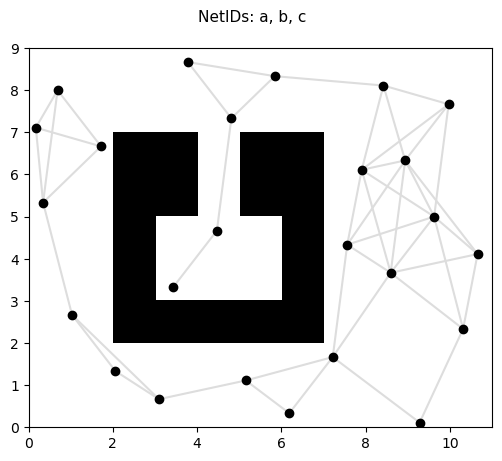
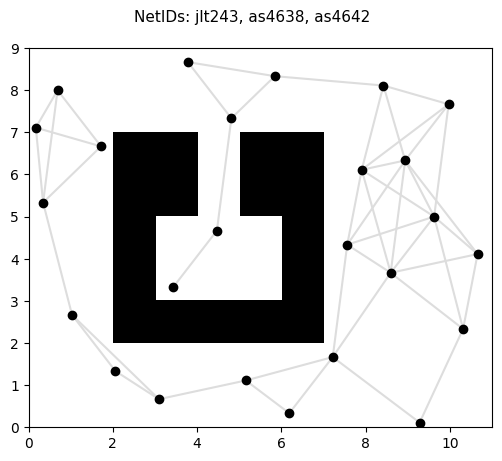
completed rest of the questions

Changed region(s): [[0.2689, 0.0, 0.747, 0.0607]]

diff --git a/mote-curriculum-student/src/mote_curriculum/hw4/planning/src/planning/problems.py b/mote-curriculum-student/src/mote_curriculum/hw4/planning/src/planning/problems.py
@@ -228,7 +228,8 @@ class SE2Problem(PlanarProblem):
         q2_2d = np.atleast_2d(q2)
         ### BEGIN QUESTION 4.1 #####################
         ### Hint: try to make use of dubins.path_length()
-        pass
+        # Dubins length is directional: cost of driving FROM q1 TO q2 with the car's max curvature.
+        return dubins.path_length(q1_2d, q2_2d, self.curvature)
         ### END QUESTION 4.1 #######################
 
     def cost_to_go(self, q1, goal):

diff --git a/mote-curriculum-student/src/mote_curriculum/hw4/planning/writeup/writeup.md b/mote-curriculum-student/src/mote_curriculum/hw4/planning/writeup/writeup.md
@@ -1,49 +1,92 @@
-# Project 4: Planning 
+# Project 4: Planning
 
-Replace this with your own writeup! Please place all figures and answer all questions in this directory.
+NetIDs: jlt243, as4638, as4642
 
-**Q0** Assembled battery mount:
+## Q0. Battery Mounting Bracket
 
-**Q1.2** A* Shortest Path Figure: 
+We picked up a battery mounting bracket from the lab and installed it under the tail runner of our car, so that the weight of the battery is supported by the bracket instead of the battery port on the board.
 
-![](astar_map1.png)
-![](astar.png)
+![Battery mounting bracket installed under the tail runner of our Mote car](battery_mount.png)
 
-**Q2.1** RRT Path Figure: ...
+## Q1. Searching on R2 Problems using A*
 
-![](rrt_map1.png)
-![](rrt.png)
+The roadmap that A* searches over is a graph of collision-free sample points connected by straight edges. The figure below shows the simple roadmap for `map1.txt` that the rest of Q1 builds on.
 
-**Q3**
+![Roadmap on map1.txt](roadmap.png)
 
-A* beats RRT Figure: ...
+**Q1.1.** For `R2Problem`, the state is just an (x, y) position, so the cost between two states is the straight-line Euclidean distance between them. We implemented `compute_distance` by first making both inputs two-dimensional with `np.atleast_2d`, then taking the difference, squaring it, adding the x and y parts, and taking the square root. Because this is done with NumPy arrays, the same code works whether we pass in a single state or a whole array of states, which matters because `cost_to_go` uses this function to compute the heuristic for many nodes at once. Our implementation passes `test/problems.py`.
 
-![](astar_winner.png)
+**Q1.2.** In the main A* loop, the node with the lowest f-value is popped from the priority queue, and each of its neighbors that has not been expanded yet is considered. For each one, we compute its cost-to-come as the current node's cost-to-come plus the length of the edge between them, and then its f-value as that cost-to-come plus the heuristic estimate to the goal. We then push a new `QueueEntry` with this information into the queue, with the current node recorded as its parent. Once the goal is expanded, `extract_path` starts at the goal and keeps following the parent pointers until it reaches the start, and then reverses the list so the path goes from start to goal. Our implementation passes the `test_astar_r2problem` suite in `test/astar.py`.
 
-A* is better than RRT because ...
+The first figure is the A* path on `map1.txt` from (1, 6) to (9, 3), which matches the reference plot. The second is the shortest path on `map2.txt` from (252, 115) to (350, 350).
 
+![A* path on map1.txt](astar_map1.png)
+![A* shortest path on map2.txt](astar.png)
 
+## Q2. Searching on R2 Problems using RRT
 
-RRT beats A* Figure: ...
+**Q2.1.** RRT grows a tree out from the start by repeatedly sampling random points in free space. In `extend`, we take the vector pointing from the nearest tree node `x_near` to the sampled point `x_rand`, scale it by `eta`, and add it to `x_near` to get the new point. We then check that the edge from `x_near` to this new point is collision-free using `check_edge_validity`, and return `None` if it is not. In `Plan`, for every sampled point we find the nearest node already in the tree, call `extend` towards the sample, and if the new point is valid, add it to the tree as a vertex along with an edge back to its parent. We stop as soon as a new vertex lands within the epsilon threshold of the goal. Our implementation passes `test/rrt.py`.
 
-![](rrt_winner.png)
+The first figure is the RRT path on `map1.txt` from (1, 6) to (9, 3), which matches the reference plot. The second is the RRT path on `map2.txt` from (252, 115) to (350, 250), where the red lines show the tree and the blue line is the final path.
 
-RRT is better than A* because ...
+![RRT path on map1.txt](rrt_map1.png)
+![RRT path on map2.txt](rrt.png)
 
+**Q2.2.** The path that RRT returns is usually far from optimal, because every edge just goes to wherever a random sample happened to fall. To clean this up, `ShortenPath` walks along the path and, for each node, checks whether the node before it can connect directly to the node after it without hitting an obstacle. If it can, the middle node is not needed and is removed, and the check is repeated from the same position. Otherwise we move on to the next node. In the figure below, the original RRT path is shown in blue and the shortened path in green, which matches the reference plot. Our implementation passes `test/rrt_shortcut.py`.
 
-**Q4**
+![RRT path with shortcut on map1.txt](rrt_shortcut.png)
 
-Q4.2
-![](cant_path_astar_foxglove.png)
+## Q3. Tradeoffs between A* and RRT
 
-Q4.3
-![](multiple_plots_foxglove.png)
+For this question, A* uses a lattice sampler with 100 vertices and a connection radius of 3. On a 20 × 20 map, this places the roadmap vertices on a regular grid at the odd coordinates (1, 3, 5, ..., 19), 2 units apart. Each vertex connects to its horizontal and vertical neighbors (distance 2) and its diagonal neighbors (distance 2√2 ≈ 2.83), but nothing further. RRT, on the other hand, samples directly from any free cell on the map. Both of our maps are designed around this difference. Both maps pass `test/tradeoff.py`.
 
+**A* beats RRT.** In `astar_beats_rrt_map.txt`, the start at (1, 1) leads into a short corridor, which feeds into a narrow diagonal "staircase" passage that is only one cell wide. This passage then ends in a corridor down the right edge of the map to the goal at (19, 19). Next to the staircase there is a large open region, separated from it by a one-cell wall that only touches the passage at the corners of the cells.
+
+![A* path on astar_beats_rrt_map.txt](astar_beats_rrt.png)
+
+A* does well on this map because the lattice happens to place vertices right on the staircase, and its diagonal edges run straight down the passage. As a result, A* simply searches the graph and finds the path (length 27.8) in a few milliseconds. RRT, however, always grows from the node in the tree that is nearest to each random sample. Since the open region is much larger than the passage, most of the samples land there, and the tree fills that region quickly. Once that happens, for every cell in the staircase, the nearest tree node is sitting on the other side of the wall, and the straight edge to it passes through the wall, so the extension is rejected. Because the next step of the passage is always closer to the open region than to the end of the tree inside the passage, RRT keeps getting stuck in the same place no matter how long it runs. In the test, RRT runs out of its 10-second budget without finding a path. We also tried seven different random seeds and let RRT run for about 70 seconds each, and in every case the tree stopped growing at around 114 nodes without ever reaching the goal. This is a well-known weakness of RRT in narrow passages. A large area of free space that does not lead anywhere ends up pulling the tree's growth away from the small region that actually matters.
+
+**RRT beats A*.** In `rrt_beats_astar_map.txt`, the map is split into two halves by a wall that is two rows thick, with a single one-cell gap at x = 10.
+
+![RRT path on rrt_beats_astar_map.txt](rrt_beats_astar.png)
+
+Here, A* cannot find a path at all, even though one exists. The gap is at an even x-coordinate, so none of the lattice vertices fall inside it. On top of that, the wall is thick enough that the nearest lattice vertices on either side are 4 apart, which is more than the connection radius of 3. This means the roadmap is split into two disconnected pieces, and A* correctly reports that there is no path on the roadmap. RRT does not have this problem, because it can sample any free cell, including the cells in the gap. It eventually draws a sample in the gap, grows through it, and finds a valid path in about one second, as shown in the figure.
+
+**Tradeoffs.** Taken together, these two maps show that the two planners fail in different ways. A* on a roadmap gives consistent results, and the path it returns is the shortest one available on the graph. Once the roadmap is built, searching it is also very fast, and the same roadmap can be reused for many different queries. However, A* can only be as good as its roadmap. If the sampling or the connection radius misses a narrow passage, A* will report that no path exists, even when one does. RRT, in contrast, does not need a precomputed roadmap and can find its way through gaps that a fixed lattice misses. Its downsides are that the paths it finds are random and usually far from the shortest, which is why the shortcutting in Q2.2 is needed, its runtime changes from run to run, and its greedy nearest-node growth can stall badly in narrow passages next to large open areas.
+
+## Q4. Planning for the Car in SE(2)
+
+**Q4.1.** Unlike the R2 problems, the car's state in SE(2) also includes its heading. Since the car can only drive forward and has a minimum turning radius, the straight-line distance is no longer a good measure of how far apart two states are. Instead, the cost is the length of the Dubins path, which is the shortest path between two poses that only uses arcs at the maximum curvature and straight lines. We implemented `compute_distance` for `SE2Problem` by calling `dubins.path_length(q1, q2, self.curvature)` on the two arrays of states. One important detail is that this distance depends on the direction. Driving from A to B is not the same as driving from B to A, which is why the SE(2) roadmap is a directed graph. For this reason, `q1` is always passed as the start and `q2` as the end, which matches how `cost_to_go` and the roadmap call this function. The Dubins length also ignores obstacles, so it never overestimates the true cost and is still a valid heuristic for A*. Our implementation passes both the `test_astar_r2problem` and `test_astar_se2problem` suites in `test/astar.py`. The figure below shows the SE(2) A* path on `map1.txt` from (1, 6, 0°) to (9, 3, 45°) with curvature 3, which matches the reference plot.
+
+![SE(2) A* path with Dubins edges on map1.txt](astar_se2.png)
+
+**Q4.2.** For this question, we ran `astar_test.launch` with `dubins:=true` and chose a start and goal that A* could not connect. The start pose is the one with the purple circle around it (the initial pose estimate) in the bottom-right room, facing almost straight at the right-hand wall. The goal pose is in the small room on the left, facing towards the short wall above it.
+
+![Start and goal with no valid SE(2) A* path](cant_path_astar_foxglove.png)
+
+The roadmap itself was built without any problems, with 1000 vertices and 35,763 edges. However, A* could not find a path between the two poses and reported that the goal node (1001) is not reachable from the start node (1000).
+
+![A* warning in the terminal](cant_path_astar_terminal.png)
+
+The path is not valid because of the car's heading and turning constraints in such a small space. In SE(2), the car can only drive forward along curves with a minimum turning radius of about 0.33 m (curvature of 3 per meter), so every edge in the roadmap is a one-way Dubins curve. On top of that, an edge is only added if its curve is at most 1.5 m long and does not pass through a wall. The whole arena is only about 3 m × 3 m, and the start pose sits in a small corner room, pointing almost directly at the wall. To leave this room, the car would have to swing around in a forward-only arc, which needs roughly 0.67 m of space for a U-turn. As a result, most of the nearby roadmap vertices would need a Dubins curve that either runs into the wall or is longer than 1.5 m, so the start has very few or no valid edges leading out into the rest of the roadmap. The goal has the same problem in reverse. It is in a tight space facing a wall, and the car has to arrive with exactly that heading, so very few curves can reach it. Since the edges only go one way, it is not enough for the two poses to be in free space. There has to be a chain of drivable edges all the way from the start to the goal, and for these two poses there is not one. In R2, where heading does not matter and edges are straight lines, these two positions would be easy to connect, which shows that the failure comes from the heading and turning radius constraints rather than from the walls alone. A larger connection radius, more vertices, or less constrained headings would give the planner a better chance of connecting them.
+
+**Q4.3.** We then ran the RRT node on the same map and clicked the same start and goal poses, with both `/astar_path_viz` and `/rrt_path_viz` enabled in Foxglove. In the figure below, the blue line is the RRT path, and the light red lines are the tree that RRT grew while searching.
+
+![A* and RRT paths for the same start and goal](multiple_plots_foxglove.png)
+
+The A* path topic was also enabled, but there was nothing to draw, since Foxglove reports that the `/astar_path_viz` marker has no points. This is because A* in SE(2) did not find a path for these poses.
+
+![Foxglove showing that the A* path marker is empty](multiple_plots_foxglove_astar_empty.png)
+
+Comparing the two, RRT found a path where A* could not, but it was solving a different and easier problem. The RRT node plans in R2, which means it only considers the (x, y) position, connects points with straight lines, and ignores both the heading and the turning radius. This shows up clearly in its path. It leaves the start by going straight up out of the bottom-right room, which is sideways to the direction the car is facing. It then makes several sharp corners in the middle of the arena and in the left room, and reaches the goal without matching the goal heading. A car that can only drive forward with a 0.33 m turning radius cannot make these instant turns, so even though the RRT path is free of collisions, the car cannot actually follow it as it is. The path is also clearly not the shortest, since it goes down and then back up into the left room, and the red tree shows how RRT spreads random branches across the free space until one of them reaches the goal. A* in SE(2), on the other hand, only uses Dubins edges that respect the car's heading and turning radius. This means any path it returns is one the car could actually drive, and it is the shortest such path on the roadmap. The downside is that when the start or goal is too constrained, as with these poses facing walls in tight rooms, it may not find a path at all. Overall, RRT in R2 is more flexible and will usually find some path, while A* in SE(2) is stricter but gives paths that are actually feasible for the car.
 
 ## AI usage (-8 pts if incomplete)
 **Did you use AI for this assignment? If so, how was it used? Eiher state "no AI was used" or explain *how* it was used. Failure to complete this section will result in 10% of your grade being lost**
 
-Chat gpt was used in this assignment to help us better understand the A* and RRT path planning alogrithms and the proper code to write it into Python. It helped explain concepts such as Euclidean distance, Priority ques, cost to come, heruistics, path extraction, and tree expnsion. Additionally, AI helped debug errors involving variable assignmnts, incorrect path costs, collision checking, and nearest neighbor searches.
+ChatGPT was used in this assignment to help us better understand the A* and RRT path planning algorithms and how to write them in Python. It helped explain concepts such as Euclidean distance, priority queues, cost-to-come, heuristics, path extraction, and tree expansion. Additionally, it helped us debug errors involving variable assignments, incorrect path costs, collision checking, and nearest neighbor searches.
+
+Claude Code was also used for the later parts of the assignment. It designed the two Q3 maps and checked them with `test/tradeoff.py`, implemented the one-line `SE2Problem.compute_distance` for Q4.1 and checked it against the tests and the reference plot, and helped us set up the Docker container and fix the missing ROS dependencies needed for Q4.2 and Q4.3. It also helped draft the written explanations for Q3, Q4.2, and Q4.3 and the overall wording of this writeup, and regenerated some of the figures with our NetIDs. We reviewed the code, the figures, and the explanations before submitting.
+
 ## Feedback
 
 **How much time did you spend on this assignment?**
